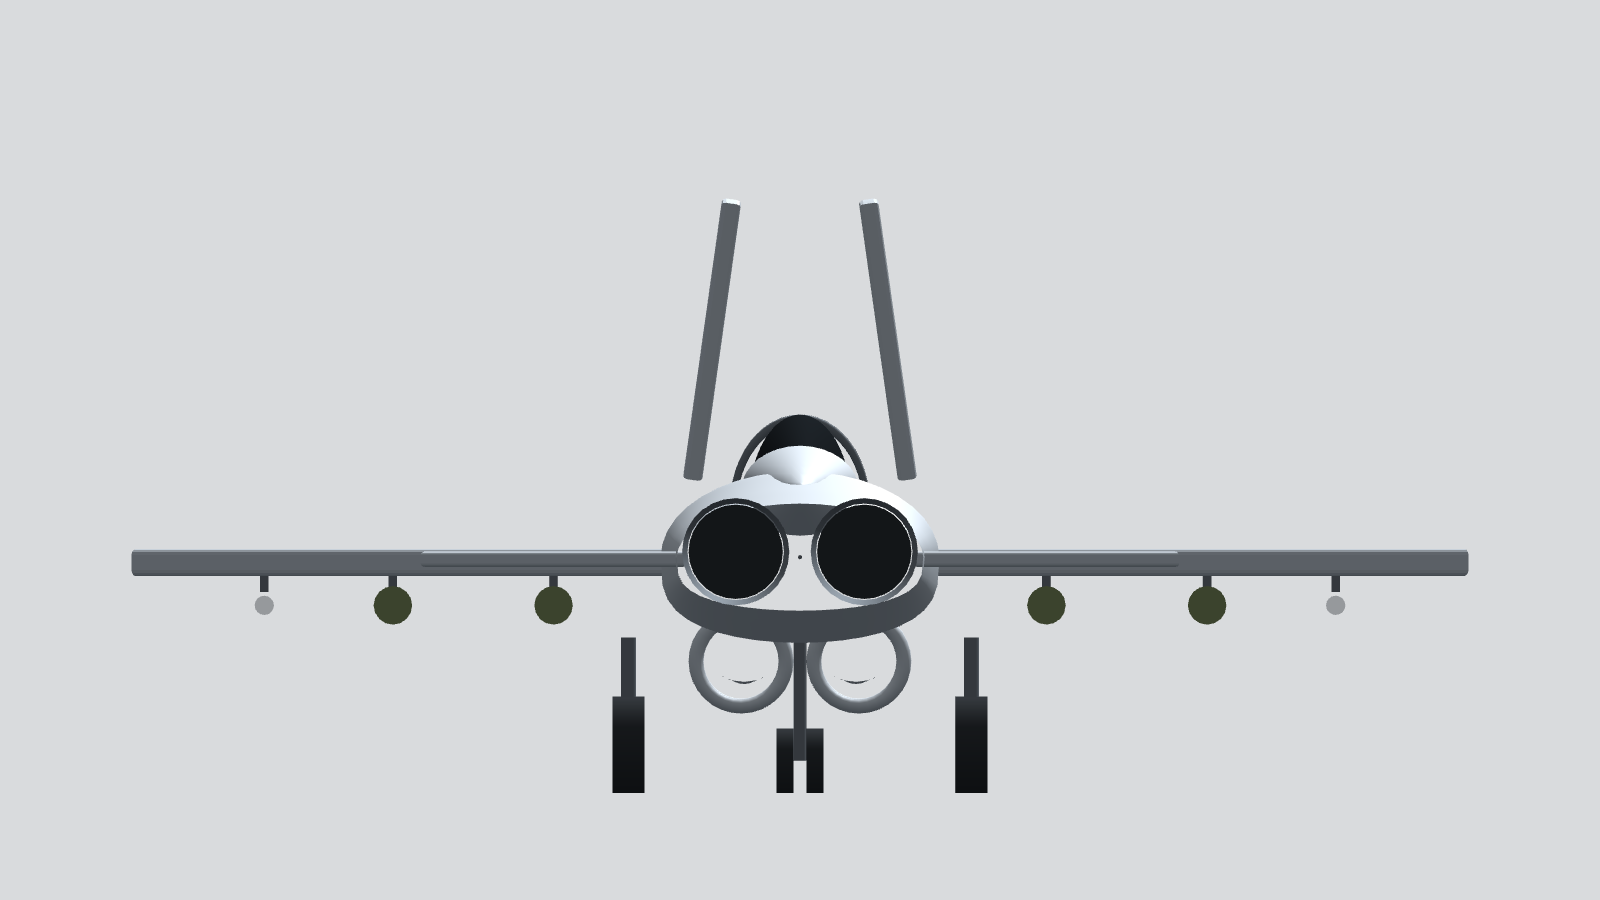
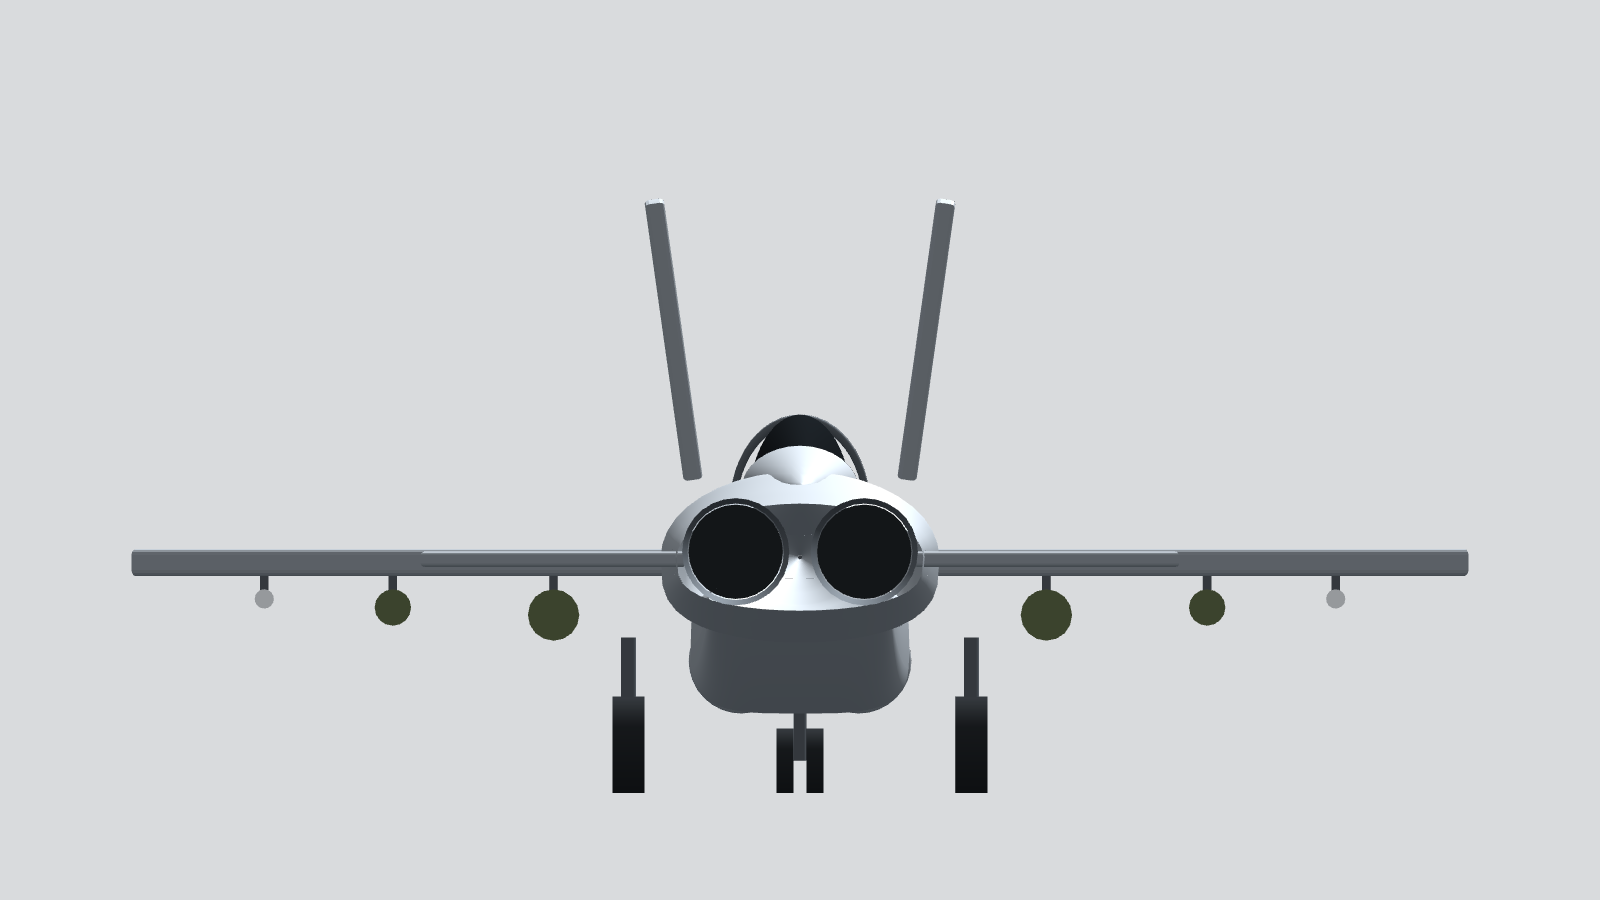
ZF-25 clay: blend intakes into a belly housing, fins canted outward, larger inboard bombs
Claude-Session: https://claude.ai/code/session_01MLonhoi9ZqQWL8dbqA79rs

diff --git a/assets/originals/menu/v2/clay/model.js b/assets/originals/menu/v2/clay/model.js
@@ -36,12 +36,29 @@ function buildZF25(THREE, opt) {
   const fr = new THREE.Mesh(new THREE.TorusGeometry(0.62, 0.035, 8, 24, Math.PI), MD); fr.rotation.y = Math.PI / 2; fr.scale.set(1, 1.3, 0.78); fr.position.set(5.5, ZC + 0.48, 0); G.add(fr);
   // dorsal hump 7.6..16.5
   const hp = new THREE.Mesh(new THREE.SphereGeometry(1, 40, 16), M); hp.scale.set(4.6, 0.42, 0.55); hp.position.set(12.0, ZC + 0.62, 0); G.add(hp);
-  // intakes: two round pipes under the belly, faces at 6.0, dia 0.9, centres +-0.55; ducts faired back to 10.5
+  // intakes: two round mouths under the belly, faces at 6.0, dia 0.9, centres +-0.55, set into one faired belly
+  // housing that runs back and blends into the fuselage (no separate hanging pipes)
+  const yc = ZC - 0.97;
+  {
+    const X0 = 6.25, X1 = 14.5, NS = 40, NB = 48, bp = [], bi = [];
+    for (let i = 0; i <= NS; i++) {
+      const x = lerp(X0, X1, i / NS), t = Math.max(0, (x - 10.5) / (X1 - 10.5));
+      const w = lerp(1.02, 0.85, t), bot = lerp(yc - 0.49, ZC - 0.62, t * t), top = ZC - 0.2, hh = (top - bot) / 2, cy = (top + bot) / 2;
+      for (let j = 0; j <= NB; j++) {
+        const a = j / NB * Math.PI * 2, c = Math.cos(a), sn = Math.sin(a);
+        bp.push(x, cy + Math.sign(sn) * Math.pow(Math.abs(sn), 0.55) * hh, Math.sign(c) * Math.pow(Math.abs(c), 0.55) * w);
+      }
+    }
+    for (let i = 0; i < NS; i++) for (let j = 0; j < NB; j++) { const a = i * (NB + 1) + j, b = a + NB + 1; bi.push(a, b, a + 1, b, b + 1, a + 1); }
+    const bg = new THREE.BufferGeometry(); bg.setAttribute('position', new THREE.Float32BufferAttribute(bp, 3)); bg.setIndex(bi); bg.computeVertexNormals();
+    const bm = new THREE.Mesh(bg, M); bm.material.side = THREE.DoubleSide; G.add(bm);
+  }
   for (const s of [-1, 1]) {
-    const zc = 0.55 * s, yc = ZC - 0.62 - 0.35;
+    const zc = 0.55 * s;
     const lip = new THREE.Mesh(new THREE.TorusGeometry(0.42, 0.07, 12, 32), M); lip.rotation.y = Math.PI / 2; lip.position.set(6.0, yc, zc); G.add(lip);
-    const inner = new THREE.Mesh(new THREE.CircleGeometry(0.4, 32), MB); inner.rotation.y = -Math.PI / 2; inner.position.set(6.05, yc, zc); G.add(inner);
-    const duct = new THREE.Mesh(new THREE.CylinderGeometry(0.45, 0.2, 4.5, 24, 1, true), M); duct.rotation.z = -Math.PI / 2 + 0.06; duct.position.set(8.25, yc + 0.12, zc * 0.95); G.add(duct);
+    // short sleeve from the lip into the housing, dark and deep inside (no fan face in view)
+    const sl = new THREE.Mesh(new THREE.CylinderGeometry(0.47, 0.47, 0.3, 32, 1, true), M); sl.rotation.z = Math.PI / 2; sl.position.set(6.12, yc, zc); G.add(sl);
+    const inner = new THREE.Mesh(new THREE.CircleGeometry(0.42, 32), MB); inner.rotation.y = -Math.PI / 2; inner.position.set(6.3, yc, zc); G.add(inner);
   }
   // a flat plate from an outline in the x/z plane (top view), thickness t, at height y
   const plate = (pts, y, t, mat) => {
@@ -58,18 +75,18 @@ function buildZF25(THREE, opt) {
     const sh = new THREE.Shape(); sh.moveTo(14.8, 0); sh.lineTo(16.9, 2.55); sh.quadraticCurveTo(17.4, 2.62, 17.8, 2.55); sh.lineTo(17.6, 0); sh.closePath();
     const fg2 = new THREE.ExtrudeGeometry(sh, { depth: 0.1, bevelEnabled: true, bevelThickness: 0.04, bevelSize: 0.03, bevelSegments: 2 });
     const fin = new THREE.Mesh(fg2, M); const pv = new THREE.Group(); pv.add(fin); fin.position.z = -0.05;
-    pv.position.set(0, ZC + 0.75, 1.0 * s); pv.rotation.x = -s * 8 * Math.PI / 180; G.add(pv);
+    pv.position.set(0, ZC + 0.75, 1.0 * s); pv.rotation.x = s * 8 * Math.PI / 180; G.add(pv);
     // nozzle 17.8..19.0, dia 0.9, centres +-0.6
     const nz = new THREE.Mesh(new THREE.CylinderGeometry(0.45, 0.5, 1.2, 28, 1, true), MD); nz.material.side = THREE.DoubleSide; nz.rotation.z = Math.PI / 2; nz.position.set(18.4, ZC + 0.05, 0.6 * s); G.add(nz);
     const nb = new THREE.Mesh(new THREE.CircleGeometry(0.44, 28), MB); nb.rotation.y = Math.PI / 2; nb.position.set(18.2, ZC + 0.05, 0.6 * s); G.add(nb);
     // pylons and stores
-    for (const [yy, kind] of [[2.3, 'bomb'], [3.8, 'bomb'], [5.0, 'msl']]) {
+    for (const [yy, kind] of [[2.3, 'big'], [3.8, 'bomb'], [5.0, 'msl']]) {
       const xl = lerp(7.8, 13.4, (yy - 1.2) / 5.0) + 0.6;
       const py = new THREE.Mesh(new THREE.BoxGeometry(1.6, 0.25, 0.08), MD); py.position.set(xl + 0.9, ZC - 0.2, yy * s); G.add(py);
-      const L = kind === 'msl' ? 3.0 : 2.4, R = kind === 'msl' ? 0.09 : 0.18;
+      const L = { msl: 3.0, bomb: 2.4, big: 3.6 }[kind], R = { msl: 0.09, bomb: 0.17, big: 0.24 }[kind];
       const body = new THREE.Mesh(new THREE.CylinderGeometry(R, R, L, 16), kind === 'msl' ? new THREE.MeshStandardMaterial({ color: 0xd8dadc, roughness: 0.4 }) : new THREE.MeshStandardMaterial({ color: 0x55603f, roughness: 0.6 }));
-      body.rotation.z = Math.PI / 2; body.position.set(xl + 1.0, ZC - 0.45, yy * s); G.add(body);
-      const cone = new THREE.Mesh(new THREE.ConeGeometry(R, R * 2.2, 16), body.material); cone.rotation.z = Math.PI / 2; cone.position.set(xl + 1.0 - L / 2 - R * 1.1, ZC - 0.45, yy * s); G.add(cone);
+      body.rotation.z = Math.PI / 2; body.position.set(xl + 1.0, ZC - 0.3 - R, yy * s); G.add(body);
+      const cone = new THREE.Mesh(new THREE.ConeGeometry(R, R * 2.2, 16), body.material); cone.rotation.z = Math.PI / 2; cone.position.set(xl + 1.0 - L / 2 - R * 1.1, ZC - 0.3 - R, yy * s); G.add(cone);
     }
     if (opt.gear !== false) {
     // main gear
